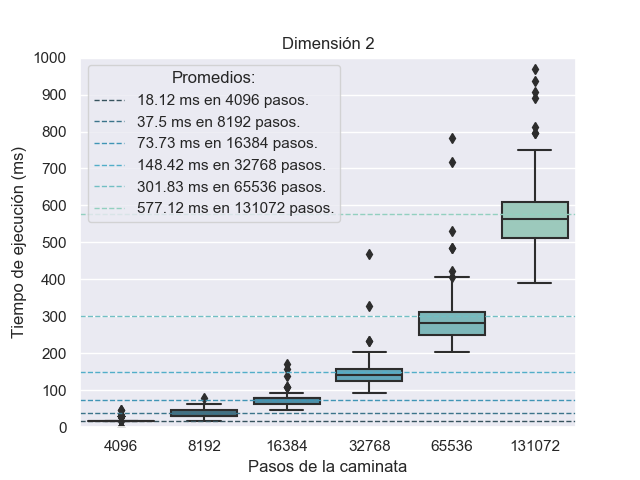
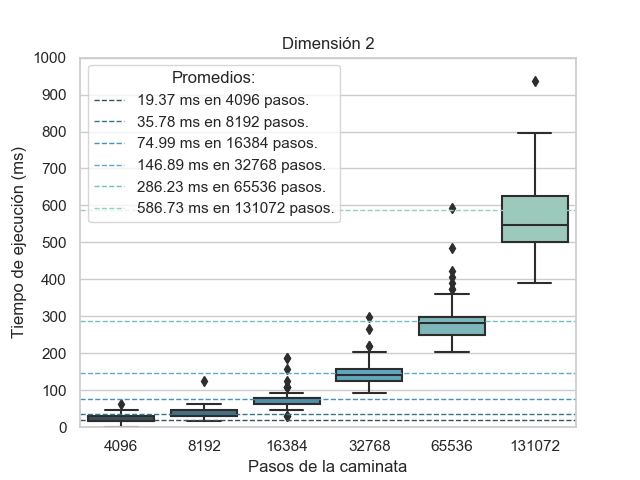
grid claro

diff --git a/P1/R1/P1v3.py b/P1/R1/P1v3.py
@@ -31,7 +31,7 @@ if __name__ == "__main__":
         #plot
         limite = 1000
         step = 100
-        sns.set(style = "darkgrid")
+        sns.set(style = "whitegrid")
         plt.ylim(top = limite, bottom = 0)
         plt.yticks([i for i in range(0, limite + 1, step)])
         ax = sns.boxplot(x = "Pasos", y = "Tiempo", data = df, palette = "GnBu_d")
